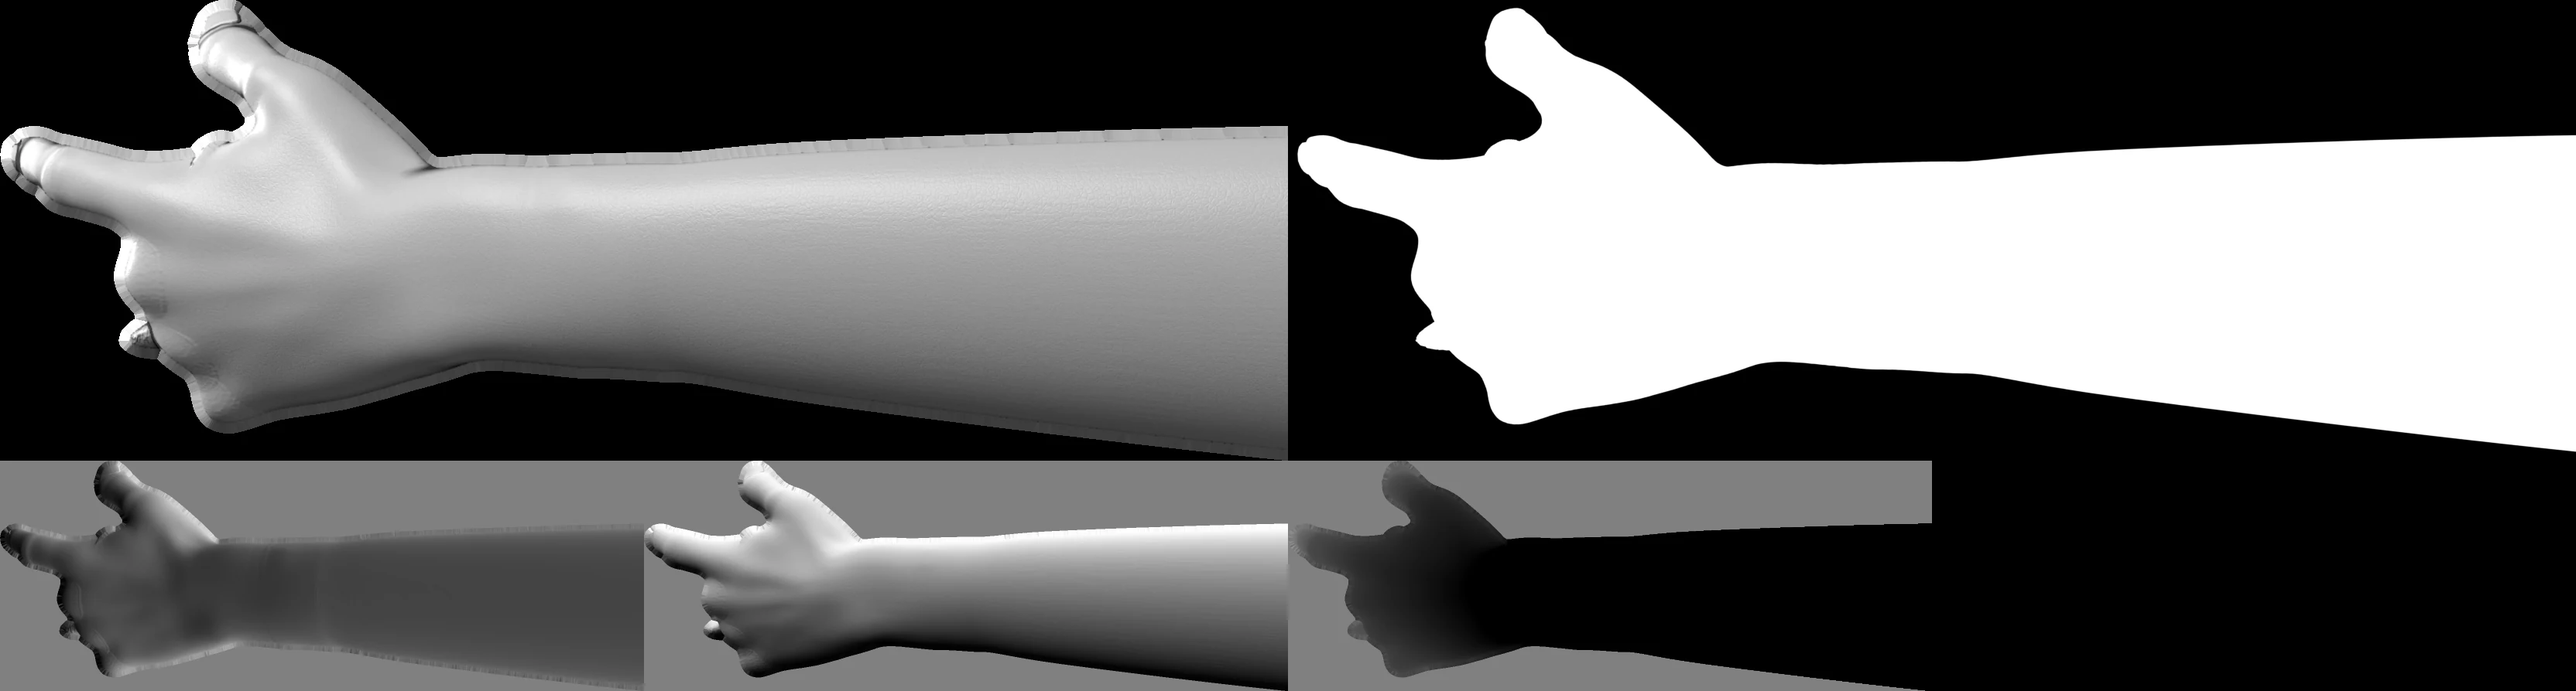
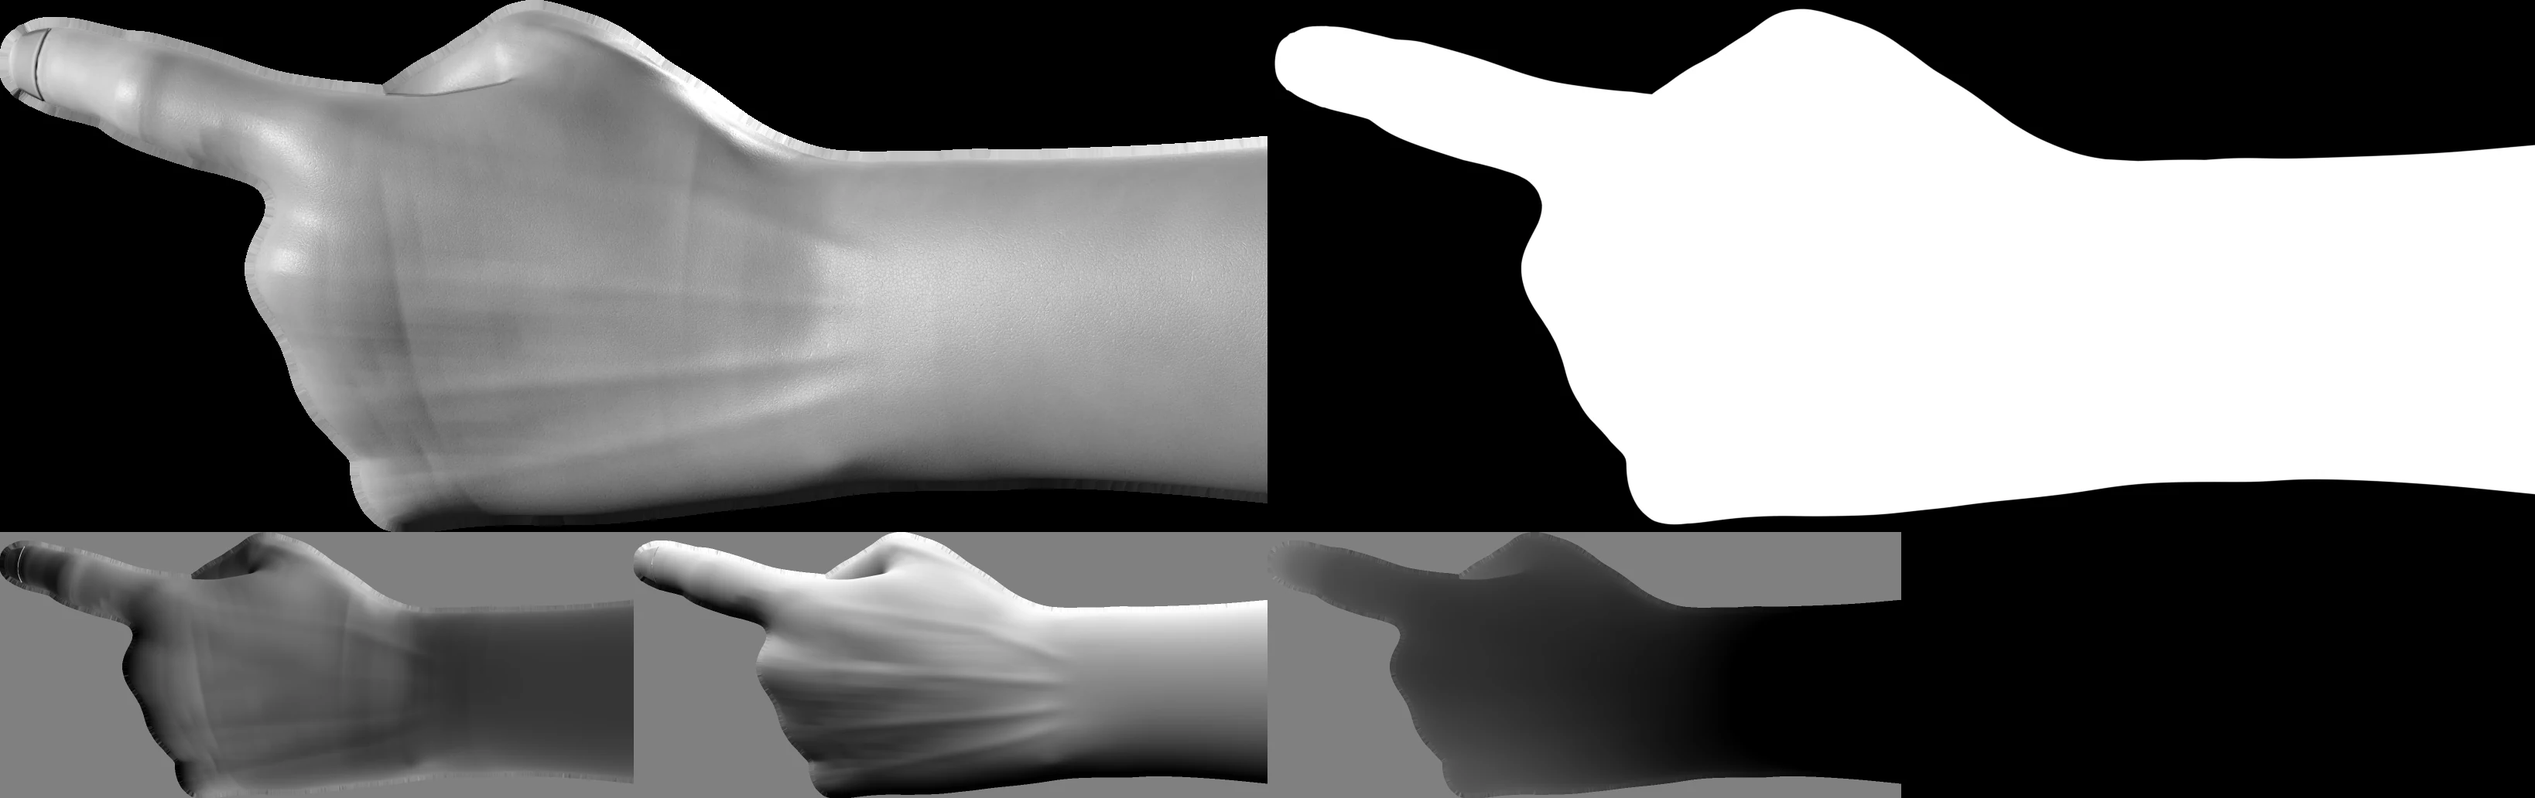
Hand-Pässe neu: Handy-Hand und Zeigehand mit eigenem Rig, anatomischer Pose, Hautmaterial und weichem Studiolicht gerendert, Zeigehand in Echtgröße, HAND.md aktualisiert

diff --git a/design/HAND.md b/design/HAND.md
@@ -1,18 +1,27 @@
 # HAND: realistische Hände aus Blender
 
-Stand 2026-10-06. Die beiden Kapsel-Hände der Engine (Handy-Hand `holdBack`/`holdFront`, Zeigehand `point`) werden durch ein in Blender gerendertes, anatomisch echtes Handmodell ersetzt. Struktur, Pose, Position und Bildsprache bleiben wie im Design: Daumen links am Handyrand, vier Finger um den rechten Rand, Handballen und Unterarm hinter dem Handy, Unterarm nach links unten; die Zeigehand folgt dem Zeiger und der Arm zeigt nach 1460/1020. Gezeichnet wird weiter in Halbton-Punkten (`dot()`, Bayer, `mix-blend-mode: difference` auf der vorderen Ebene). Die Engine bekommt keine Fotos, sondern **Daten-Pässe** (Leuchtdichte, Alpha, Normale, Tiefe) und shadet daraus selbst. Dadurch bleibt die Lichtreaktion auf den Zeiger erhalten.
+Stand 2026-10-07, zweiter Durchgang (Branch `hand-v2`). Die beiden Hände der Engine (Handy-Hand `holdBack`/`holdFront`, Zeigehand `point`) kommen aus einem in Blender gerenderten, anatomisch echten Handmodell. Struktur, Pose, Position und Bildsprache bleiben wie im Design: Daumen links am Handyrand, Finger am rechten Rand, Handballen und Unterarm hinter dem Handy, Unterarm nach links unten; die Zeigehand folgt dem Zeiger und der Arm zeigt nach 1460/1020. Gezeichnet wird weiter in Halbton-Punkten (`dot()`, Bayer, `mix-blend-mode: difference` auf der vorderen Ebene). Die Engine bekommt keine Fotos, sondern **Daten-Pässe** (Leuchtdichte, Alpha, Normale, Tiefe) und shadet daraus selbst. Dadurch bleibt die Lichtreaktion auf den Zeiger erhalten.
 
-Referenz-Umsetzung (läuft, Screenshots bei 1440 × 900 und 390 × 844 geprüft): `/Users/abu/Company/archiv/hand/scripts/preview.html` (Aufruf: Ordner `archiv/hand` mit `python3 -m http.server`, dann `/scripts/preview.html` mit `?b=../final/`; Parameter `ps`, `g`, `con`, `rim`, `view`, `ascii=1`, `mx/my/px/py`), eingeklebt im Abschnitt 6.
+Was sich gegenüber dem ersten Durchgang geändert hat (Mängel: überdehnter Daumenstiel, überstrahlte Nägel, gleich lange lose Finger, Röhren-Unterarm, Pistolenhaltung der Zeigehand, flaches Licht):
+
+- Neues Rig auf demselben CC0-Basisnetz (siehe 9): Gelenkmitten aus der Anatomie des Netzes, je Finger eigene Krümmung, Daumen mit Grundgelenk und Ballen, Hautfalten und Sehnenzüge als Verschiebung, Unterarm konisch.
+- Griffpose per Inverskinematik gelöst: Fingerspitzen liegen am Rand, kein Durchdringen des Handys, Daumen liegt auf dem Rahmen.
+- Zeigehand: natürliche Zeigehaltung (Zeigefinger leicht gebeugt, drei Finger eingerollt, Daumen angelegt), Kamera-Neigung 30 Grad zum Bildschirm.
+- Haut mit Subsurface (Random Walk Skin), Farbvariation, Poren-Bump; Nägel matt, ohne weißen Rand.
+- Licht: kleines Key-Licht oben links (Handy-Hand) bzw. von der Fingerspitzen-Seite (Zeigehand, siehe 5), schwache Füllung, Gegenlicht. Dadurch viele Grauwerte statt flacher Fläche. Kein Kantenpass mit Halo: Alpha kommt direkt aus dem Render, die 12-px-Fortsetzung der Kacheln ist nur Farbe.
+- Die Zeigehand ist jetzt in Echtgröße zur Handy-Hand modelliert (siehe 5), nicht mehr kleiner als die Finger der Handy-Hand.
+
+Referenz-Umsetzung (läuft, Screenshots bei 1440 × 900 und 390 × 844 geprüft): `/Users/abu/Company/archiv/hand/scripts/preview.html` (Aufruf: Ordner `archiv/hand` mit `python3 -m http.server`, dann `/scripts/preview.html` mit `?b=../v2/out/<lauf>/`; Parameter `ps`, `g`, `con`, `rim`, `view`, `ascii=1`, `mx/my/px/py`), eingeklebt im Abschnitt 6. Vergleichsbild (Design / Halbton / Luminanz): `scratchpad/hand-v2/vergleich.png` der Sitzung.
 
 ## 1. Dateien
 
 | Datei | Inhalt | Größe |
 |---|---|---|
-| `public/hand/hold.webp` + `hold.json` | Hand, die das Handy hält (Atlas 1888 × 2724, Maßstab 1,5) | 90 kB |
-| `public/hand/point.webp` + `point.json` | Zeigehand als Sprite (Atlas 3328 × 894, Maßstab 1,0) | 66 kB |
-| Summe | | 158 kB (Grenze 600 kB) |
+| `public/hand/hold.webp` + `hold.json` | Hand, die das Handy hält (Atlas 2040 × 2568, Maßstab 1,5) | 89 kB |
+| `public/hand/point.webp` + `point.json` | Zeigehand als Sprite (Atlas 3276 × 1032, Maßstab 1,0) | 104 kB |
+| Summe | | 193 kB (Grenze 600 kB) |
 
-Die JSON-Dateien beschreiben sich selbst (`tiles`, `origin`, `scale`, `encoding`, `space`; `hold.json` zusätzlich `phone`, `screen`, `bottomY`).
+Die JSON-Dateien beschreiben sich selbst (`tiles`, `origin`, `scale`, `encoding`, `space`; `hold.json` zusätzlich `phone`, `screen`, `bottomY`). Schlüssel, Kachelnamen, Kodierung und Bühnenkoordinaten sind identisch zum ersten Durchgang; geändert haben sich nur Kachelmaße und `origin`.
 
 ## 2. Koordinaten
 
@@ -39,25 +48,27 @@ Außerhalb der Silhouette sind `lum`, `nx`, `ny`, `z` 12 Bühnen-px weit nach au
 
 ## 4. Handy-Hand (`hold`)
 
-Linke Hand (Blender-Rechtshand, Spiegelkamera), natürlicher Griff. Gemessen im Bühnenraum:
+Linke Hand (Blender-Rechtshand, Spiegelkamera), natürlicher Griff, Handgröße 18,8 cm (93 % des Basisnetzes). Gemessen im Bühnenraum (aus `a` und `origin`):
 
-- Daumenspitze ragt 21 px über den linken Handyrand (Design: 28 px), Spitze bei y ≈ 323 (Design: 412; ein tieferer Daumen war nur mit stark gebeugtem Daumengelenk möglich und sah schlechter aus).
-- Fingerspitzen ragen über den rechten Rand: Zeige 100 px, Mittel 81 px, Ring 47 px, klein 4 px (Design: 28 px; echte Finger sind dicker als die Kapseln, der Halbton lässt die App dazwischen durchscheinen). Nägel sichtbar.
-- Unterarm-Achse 9,6° aus der Senkrechten nach links (Design 12,5°), Arm endet bei `bottomY = 1400` (Bühnen-px, 690 px unter der Handy-Unterkante). Ab etwa y 1310 ausblenden, wenn der Ausschnitt höher ist (Referenz-Shader macht das).
+- Daumen: Spitze bei etwa x 618 / y 340, die Kuppe liegt mit dem Nagel auf dem Rahmen und reicht bis x ≈ 668 (18 px über den Handyrand, Design: 28 px). Der Daumenballen läuft links vom Handy diagonal zum Handgelenk.
+- Finger: Zeige- und Mittelfinger reichen bis x ≈ 1061 (111 px über den rechten Rand, Nägel zeigen zum Betrachter), Ring- und kleiner Finger bis x ≈ 995 (45 px). Je Finger andere Krümmung, Nägel matt sichtbar. Design: 28 px; echte Finger sind dicker, der Halbton lässt die App dazwischen durchscheinen.
+- Unterarm-Achse 13,9° aus der Senkrechten nach links (Design 12,5°), konisch, endet bei `bottomY = 1400`. Ab etwa y 1310 ausblenden, wenn der Ausschnitt höher ist (Referenz-Shader macht das).
 - Holdout ist 2 % schmaler als das Handy-DOM: Haut darf bis zu 3 px darunterliegen, das DOM-Handy deckt sie.
 
-**Vorn/hinten** wird im Shader aus `z` und der Handy-Silhouette bestimmt, nicht eingebacken: `vorne = sdf(Handy außen) < 4 && z < 1,5 mm`. Vorne = Zeichenfläche über dem Handy (`mix-blend-mode: difference`, wie bisher `data-hand="front"`), alles andere = Fläche unter dem Handy (`data-hand="back"`). Vorne sind der Daumen und alle Fingerspitzen, die über den Rand auf den Bildschirm ragen.
+**Vorn/hinten** wird im Shader aus `z` und der Handy-Silhouette bestimmt, nicht eingebacken: `vorne = sdf(Handy außen) < 4 && z < 1,5 mm`. Vorne sind der Daumen und die Fingerspitzen, die über den Rand auf den Bildschirm ragen.
+
+Helligkeit: 99. Perzentil der Hand = 0,85 (sRGB-Anzeigewert), Median 0,6, dunkelste 2 % unter 0,18. Die Zeigehand ist mit Faktor 1,16 heller normiert (99. Perzentil nach Gain), damit sie vor der Handy-Hand steht.
 
 ## 5. Zeigehand (`point`)
 
-Linke Hand von hinten, Zeigefinger gestreckt, Daumen oben, drei Finger eingerollt, Zeigefinger und Unterarm fast in einer Linie (wie im Design). Das Sprite ist ein starrer Körper in demselben Rahmen wie bisher `P(a, b)` in `drawHands`:
+Linke Hand von hinten, Zeigefinger gestreckt (Grundgelenk −6°, Mittelgelenk −8°, Endgelenk −4°), Daumen angelegt, drei Finger eingerollt, Zeigefinger und Unterarm fast in einer Linie, Fingerneigung 30° zur Bildschirmebene (`params: beta 30, gamma 0`). Das Sprite ist ein starrer Körper in demselben Rahmen wie bisher `P(a, b)` in `drawHands`:
 
-- Sprite-Raum: Ursprung = Fingerspitze, `x` = Richtung Arm, `y` nach unten = Seite der eingerollten Finger (im Design `b > 0`). `point.json: origin` ist die Kachel-Ecke in diesem Raum (Bühnen-px bei Maßstab 1).
+- Sprite-Raum: Ursprung = Fingerspitze, `x` = Richtung Arm, `y` nach unten = Seite der eingerollten Finger (im Design `b > 0`). `point.json: origin` ist die Kachel-Ecke in diesem Raum (`[-28, -84]`, Kachel 1638 × 688 bei Maßstab 1,0, Spitze bei Kachel-px 28/84 plus Rand 8).
 - Platzierung wie in der Engine: `u = normalize(1460 − ht.x, 1020 − ht.y)`, `n = (−u.y, u.x)`, Spitze `(tx, ty) = ht + u · (6 + push · 4)`, Maßstab `sc = PS · (1 − push · 0,06)`.
   Zelle `(x, y)` → Sprite `a = ((x − tx) · u.x + (y − ty) · u.y) / sc`, `b = ((x − tx) · n.x + (y − ty) · n.y) / sc`, dort mit `samp()` lesen.
-- **`PS = 0,55`** trifft die Fingerbreite des alten Designs (≈ 37 px). Echte Größe wäre `PS = 1` (Finger 67 px).
-- Verblassen wie bisher: `fade = clamp(1 − (dist − 300) / 420)` mit `dist` = Abstand zur Spitze. Das Sprite reicht 1636 Sprite-px weit (900 Bühnen-px bei `PS 0,55`), also über das Verblassen (720 px) hinaus; kein sichtbarer Schnitt.
-- Normalen ins Bühnenraum-System, falls die Zeigehand auch vom Zeigerlicht beleuchtet werden soll: `n_bühne = nx_s · (u.x, −u.y) + ny_s · (u.y, u.x)` (x rechts, y oben). Die Referenz nutzt für die Zeigehand nur das eingebackene Licht.
+- **`PS = 0,55` bleibt.** Das Sprite ist dafür 1,6/0,55 fach größer als im ersten Durchgang gerendert: ein Sprite-px entspricht 1/(4,19 · 1,6) = 0,149 mm. Bei `PS 0,55` ergibt das 0,88 der Echtgröße (Zeigefinger 59 px breit, Handy-Hand-Finger 67 px). Mit `PS = 0,625` wäre es 1:1 zur Handy-Hand.
+- Verblassen wie bisher: `fade = clamp(1 − (dist − 300) / 420)` mit `dist` = Abstand zur Spitze. Das Sprite reicht 1638 Sprite-px weit (900 Bühnen-px bei `PS 0,55`), also über das Verblassen (720 px) hinaus; kein sichtbarer Schnitt. Wegen der Echtgröße liegt das Handgelenk bei etwa 640 px und verblasst; der Unterarm ist nur noch im Auslauf sichtbar (Design: Arm sichtbar bis zur Ecke). Wer den Arm länger sehen will, setzt den Verblass-Beginn von 300 auf 520 und die Länge von 420 auf 520 (Engine-Konstante, nicht Teil der Pässe).
+- Licht der Zeigehand ist von der Fingerspitzen-Seite gebacken (nach der Drehung in die Bühne kommt es von oben links). Normalen ins Bühnenraum-System, falls die Zeigehand auch vom Zeigerlicht beleuchtet werden soll: `n_bühne = nx_s · (u.x, −u.y) + ny_s · (u.y, u.x)` (x rechts, y oben). Die Referenz nutzt für die Zeigehand nur das eingebackene Licht.
 - Soll die Hand rechts statt links sein: `b = −b` im Sampler (dann sitzt der Daumen unten, wie bei der natürlichen Rechtshand von hinten).
 
 ## 6. Halbton-Shader (Referenz, aus `preview.html`)
@@ -133,32 +144,42 @@ Dieselben Pässe, keine zweite Fassung. Die Komposition (Handy, Daumen, Finger, 
 
 ## 8. Kamera, Rig, Licht (zum Neu-Rendern)
 
-Quelle: `/Users/abu/Company/archiv/hand/hand.blend` (Blender 5.2) mit allen Skripten in `archiv/hand/scripts/`.
+Arbeitsordner: `/Users/abu/Company/archiv/hand/v2/` (Blender 5.2, Python mit numpy, scipy, Pillow, OpenEXR in `v2/venv`). Alte Dateien in `archiv/hand/` bleiben unverändert.
 
-- Kamera `CamMaster` (Handy-Hand): Linse 85 mm, Sensor 36 mm (horizontal), Position (0; −0,7252; 0) m, Drehung (90°, 0, 0), **Skalierung x = −1** (Spiegelkamera: macht aus der Blender-Rechtshand die Linkshand im Bild), Shift (−0,125; −0,234375), Auflösung 1920 × 2100 (= 1,5 × 1280 × 1400), Clip 0,05–5 m. Handy-Vorderseite liegt 0,7213 m vor der Kamera.
-- Handy: 71,6 × 147,6 × 7,8 mm, Eckenradius 11,5 mm, Mitte im Ursprung, im Pass als Holdout (Skalierung 0,98/1/0,99).
-- Licht: Key (Fläche 0,6 m, 18 W) bei (0,6; −0,55; 0,75), Rim (9 W) bei (0,55; 0,5; 0,2), Fill (3,4 W, 1,0 m) bei (−0,6; −0,65; 0,2), Welt weiß 0,05. Cycles, 192 Samples, Entrauschen, Standard-Farbverwaltung, transparenter Film.
-- Aux-Pass (Emission): R = `Nx_Welt · 0,5 + 0,5`, G = `Nz_Welt · 0,5 + 0,5`, B = `(Tiefe − 0,7213) · 5 + 0,5`, A = Alpha. `pack3.py` macht daraus Bildraum-Normalen (x gespiegelt) und `z` in mm.
-- Rig: 3 Knochen je Finger, 3 Daumen, Hand, Arm; Pose als 31-Parameter-Vektor (`q_hold.json`, Vorwärtskinematik in `handlib.py`). Zeigehand: `point_q.json` (Pose + Kamera `CamPoint`: Linse 85 mm, Abstand 0,7213 m, Sensor `36 · W / 1280` mm, damit die Dichte bei 4,19 px/mm bleibt und nur das Sichtfeld mit der Breite wächst; Spitze bei Pixel 64/450, Spin 8° macht den Unterarm waagerecht).
-- Befehle (aus `archiv/hand/scripts/`, Python mit numpy, scipy, Pillow, OpenEXR):
+- Szene `hand_v2_hi.blend`: Basisnetz `HandBase` (3300 Punkte), Rig `HandRig` (Knochen je Finger 3, Daumen 3 plus Mittelhand, Hand, Unterarm in 6 Segmenten), `HandHi` = Basisnetz 3 × unterteilt (238 k Punkte) mit interpolierten Gewichten. Pose als Winkelsatz in `poses/*.json` (`angles`, `T`), Vorwärtskinematik `scripts/fk.py`.
+- Kamera Handy-Hand `CamMaster`: Linse 85 mm, Sensor 36 mm, Position (0; −0,7252; 0) m, Drehung (90°, 0, 0), **Skalierung x = −1** (Spiegelkamera: macht aus der Blender-Rechtshand die Linkshand im Bild), Shift (−0,125; −0,234375), Auflösung 1920 × 2100 (= 1,5 × 1280 × 1400). Handy-Vorderseite liegt 0,7213 m vor der Kamera, Handy als Holdout (Skalierung 0,98/1/0,99).
+- Kamera Zeigehand `CamPoint` (`make_point_cam` in `scripts/build_common.py`): Linse 85 mm, Sensor `36 · W / (1280 · k)` mm mit `k = 1,6 · Maßstab`, Abstand 0,7213 m; 1650 × 1000 Sprite-px bei Maßstab 1,0, Spitze bei (40, 300). Neu gegenüber dem ersten Durchgang ist `k` (Zoom); früher war `k = 1` und der Maßstab im JSON stimmte bei Teilauflösung nicht mit der Dichte überein.
+- Licht Handy-Hand (`lights/F.json`): Key (Fläche 0,32 m, 30 W) bei (0,72; −0,40; 0,78), Rim (0,4 m, 9 W) bei (−0,55; 0,45; 0,35), Fill (1,4 m, 1,1 W) bei (−0,7; −0,5; −0,1), Welt 0,015. Zeigehand (`lights/FP.json`): Key (0,35 m, 11 W) bei (0,9; −0,3; 0,15), Fill 1,0 W, Rim 6 W. Cycles, 192 Samples, Entrauschen, Standard-Farbverwaltung, transparenter Film.
+- Aux-Pass (Emission): R = `Nx_Welt · 0,5 + 0,5`, G = `Nz_Welt · 0,5 + 0,5`, B = `(Tiefe − 0,7213) · 5 + 0,5`, A = Alpha. `pack4.py` macht daraus Bildraum-Normalen (x gespiegelt) und `z` in mm, normiert die Helligkeit (99. Perzentil), hebt lokalen Kontrast an (`--detail 0,8`) und backt Tinte an Tiefen- und Normalensprüngen (`--ink 0,22`).
+- Befehle (aus `archiv/hand/v2`; rendert beide Pässe, packt sie und schreibt `out/<lauf>/pk/`):
 
 ```
-blender -b ../hand.blend --python render_passes.py -- q_hold.json out/hold 192 1920 2100 lt_hold.json
-python3 pack3.py out/hold out/pk hold --scale 1.5 --q 88 --pct 80 --gain 0.78 --phone 650,90,300,620,48
-blender -b ../hand.blend --python qpoint.py -- point_q.json out/point passes 1700 1000 192
-python3 pack3.py out/point out/pk point --scale 1.0 --q 88 --pct 80 --gain 0.78 --anchor 64,450
+scripts/run_all.sh r8 poses/hold_v2.json poses/pw_b.json lights/F.json 100 100 192 0.85 0.85 99 lights/FP.json
+scripts/pack_only.sh r8 r8 0.85 0.85 99 0.22 0.8 100 100      # nur neu packen (Ink/Detail/Gain)
+scripts/preview_combo.sh r8 r8 out.png 1280 800                 # Halbton-Vorschau
+venv/bin/python scripts/compose_lum.py out/r8/pk lum.png 2      # Graustufen-Luminanz im Bühnenraum
 ```
 
-Nicht mehrere Blender-Läufe mit GPU parallel starten (Metal: „Insufficient Memory“).
+Ein Lauf braucht rund 1 Minute (Apple GPU). Nicht mehrere Blender-Läufe mit GPU parallel starten (Metal: „Insufficient Memory“).
 
-## 9. Lizenz / Credits
+## 9. Lizenz / Credits und Modellwahl
 
-Basismodell: „Hand – Realistic“ aus dem Blender-Studio-Paket **Human Base Meshes v1.4.1**, Autor Dan Ulrich, Lizenz **CC0** (kein Nachweis nötig, wird hier trotzdem genannt). Quelle: https://mirror.blender.org/demo/asset-bundles/human-base-meshes/human-base-meshes-bundle-v1.4.1.zip. Alles Weitere (verlängerter und aufgeweiteter Unterarm, Rig, Gewichte, Pose, Nägel, Hautfalten, Material, Licht, Render, Pässe) ist eigene Arbeit. Es wurde kein generiertes Modell und keine fremde Fotografie benutzt.
+Basismodell: „Hand – Realistic“ aus dem Blender-Studio-Paket **Human Base Meshes v1.4.1**, Autor Dan Ulrich, Lizenz **CC0** (kein Nachweis nötig, wird hier trotzdem genannt). Quelle: https://mirror.blender.org/demo/asset-bundles/human-base-meshes/human-base-meshes-bundle-v1.4.1.zip. Alles Weitere (Rig, Gewichte, Unterteilung, Hautfalten und Sehnen, Nägel, Material, Pose, Licht, Render, Pässe) ist eigene Arbeit. Es wurde kein generiertes Modell und keine fremde Fotografie benutzt; Fotos von Händen am Handy dienten nur als Vorlage für Proportion und Haltung.
+
+Vergleich der Kandidaten (Probe-Renderings in `v2/out`, Sitzungsordner `hand-v2`):
+
+1. **Hand – Realistic** (Human Base Meshes, CC0, 3300 Punkte, sauberer Quad-Fluss, anatomisch gute Daumenballen und Fingerproportionen). Gewählt: nach 3-facher Unterteilung plus Falten und Sehnen als Verschiebung in der Nahaufnahme von einer Fotografie kaum zu unterscheiden (siehe Kontaktbogen der Zeigehand-Varianten).
+2. Hand der **Realistic-Körper männlich/weiblich** (selbes Paket, CC0): gleiche Herkunft, aber gröber (Körper insgesamt 10 k Punkte, Finger ohne Fingerlücken-Topologie), keine Verbesserung.
+3. Stilisierte Hand desselben Pakets: zu grob.
+
+Nicht geprüft werden konnten Fotogrammetrie-Scans von Sketchfab (z. B. „Male Hand“ von Lassi Kaukonen, CC-BY, 7,9 k Flächen; „Female Hand“ von yanix, CC-BY, 193 k Flächen) und die Blender-Erweiterung MPFB: Der Download aus Sketchfab verlangt einen API-Schlüssel, und ein Download aus unbekannter Quelle braucht eine ausdrückliche Freigabe des Nutzers, die in dieser Sitzung nicht vorlag. Ein Scan wäre bei Hautdetail im Vorteil, würde aber ein neues Rig und eine neue Pose-Lösung brauchen. Poly Haven enthält keine menschliche Hand. `generate_3d` wurde nicht benutzt.
 
 ## 10. Bekannte Grenzen
 
-- Die Finger der Handy-Hand überdecken mehr vom Bildschirm als im Design (Zeigefinger 100 px statt 28 px), weil echte Finger dicker sind. Eine Variante mit 79/51 px Überlappung (Zeigefinger stärker eingeklappt) wirkte verkrampft, deshalb ist die natürliche Haltung gewählt.
+- Die Finger der Handy-Hand überdecken mehr vom Bildschirm als im Design (Zeigefinger 111 px statt 28 px), weil echte Finger dicker sind. Verschieben der Hand nach links versteckt den Daumenballen-Knick besser, drückt aber die Fingerspitzen weiter auf den Bildschirm (getestet, verworfen).
+- Zwischen Daumen und Unterarm der Handy-Hand sitzt am unteren linken Handyeck eine Taille (der Handballen liegt hinter dem Handy). Im Halbton fällt sie wenig auf, in der Luminanz sieht man sie.
 - Beide Hände sind Linkshände (Spiegelkamera, wie im Design: Daumen links bzw. oben). Für eine Rechtshand beim Zeigen: `b = −b` (Abschnitt 5).
-- Die Zeigehand kann bei Zeigerposition rechts der Handymitte mit dem Daumen auf den kleinen Finger der Handy-Hand fallen (zwei Halbton-Flächen laufen ineinander). Idle-Pfad der Zeigehand daher bei etwa `x 780–860, y 330–470` halten.
-- Zwischen Daumen und Zeigefinger der Zeigehand sitzt ein kleiner Haut-Zipfel (Gewichtsübergang am Daumengrundgelenk). Bei `PS ≤ 0,7` nur ein Punktpaar groß.
-- `lum` ist für ein Licht von oben links gebacken. Das Zeigerlicht verschiebt nur Glanz und Helligkeit, keine Schlagschatten.
+- Die Zeigehand verblasst am Handgelenk, weil sie in Echtgröße modelliert ist und die Engine bei 720 px ausblendet (siehe 5). Das Design zeigt den Arm bis in die Ecke.
+- Die Zeigehand kann bei Zeigerposition rechts der Handymitte auf den kleinen Finger der Handy-Hand fallen (zwei Halbton-Flächen laufen ineinander). Idle-Pfad der Zeigehand bei etwa `x 780–860, y 330–470` halten.
+- Der Halbton (Zellgröße 2,5 px) löst Fingernägel, Knöchelfalten und Poren nicht auf; die Echtheit kommt von Silhouette und Verlauf. Nägel und Daumen erscheinen als kleine, glatte Flächen.
+- `lum` ist für ein festes Licht gebacken. Das Zeigerlicht verschiebt nur Glanz und Helligkeit, keine Schlagschatten.
